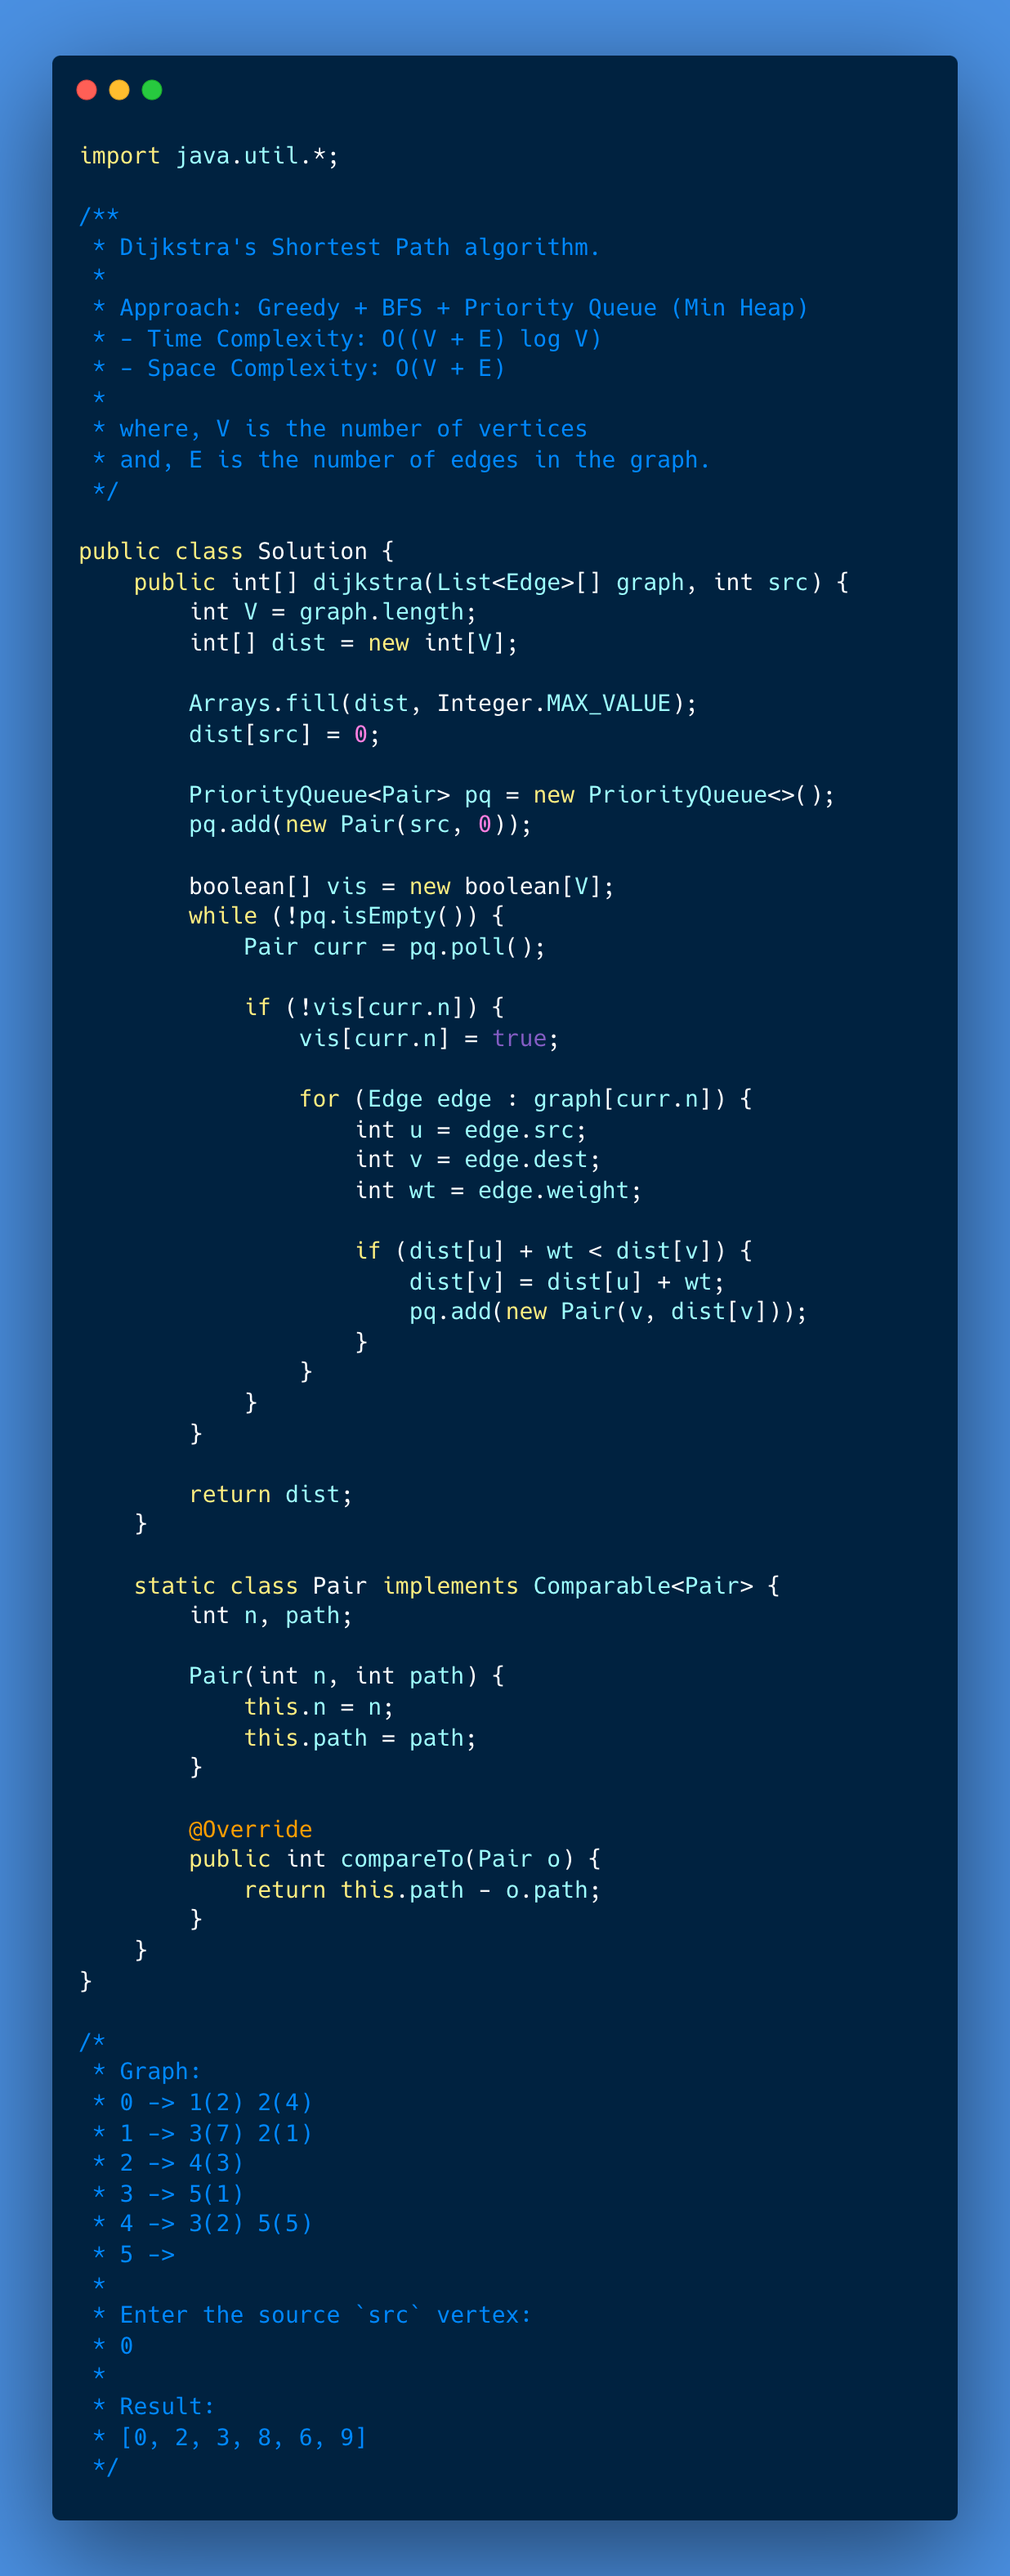
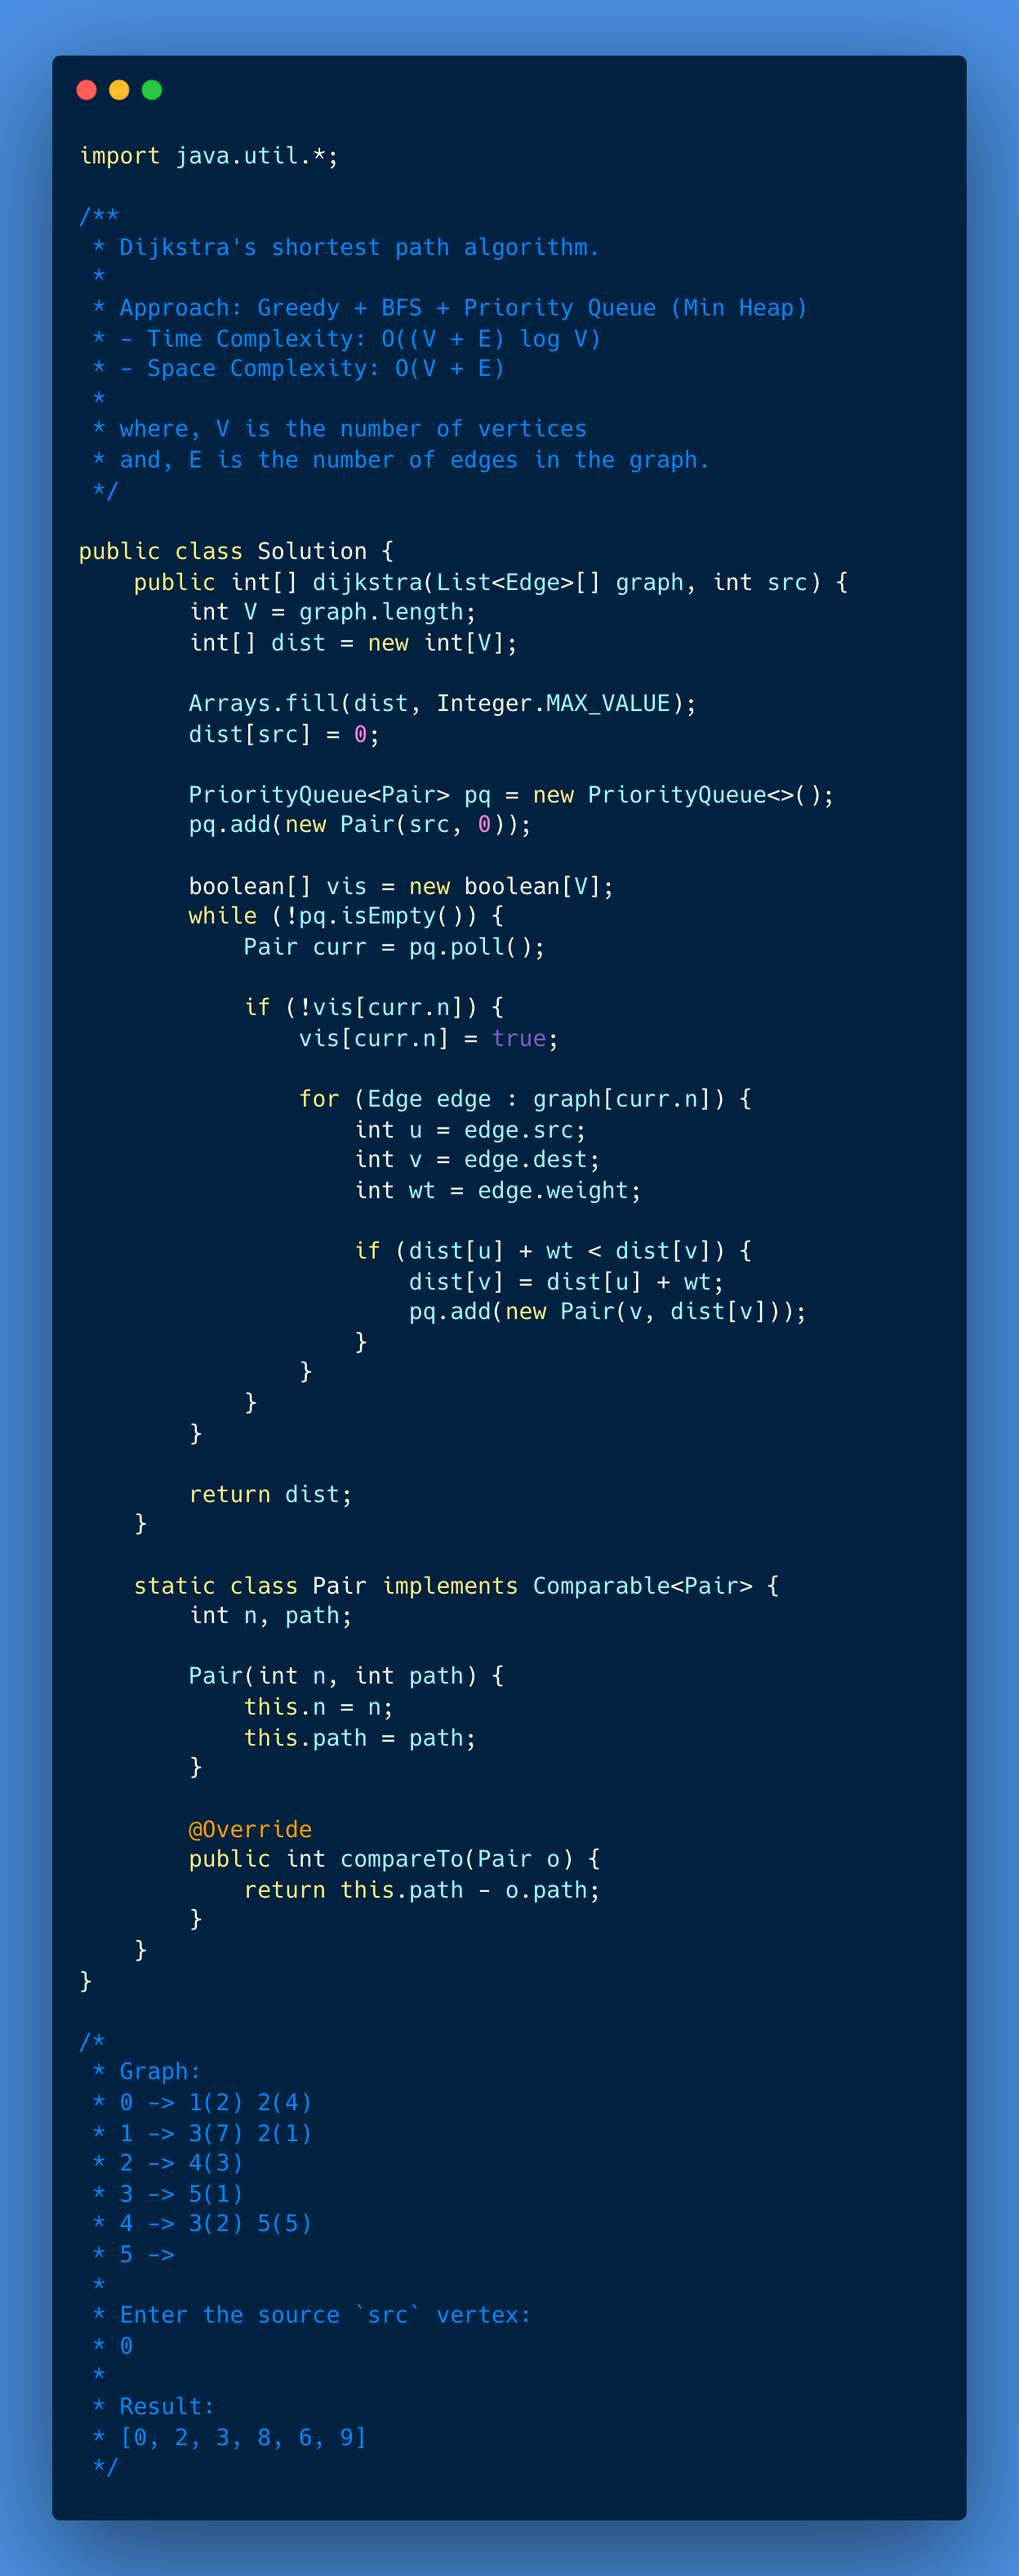
code comment updates

diff --git a/256-dijkstras-shortest-path/001-solution/Solution.java b/256-dijkstras-shortest-path/001-solution/Solution.java
@@ -1,7 +1,7 @@
 import java.util.*;
 
 /**
- * Dijkstra's Shortest Path algorithm.
+ * Dijkstra's shortest path algorithm.
  * 
  * Approach: Greedy + BFS + Priority Queue (Min Heap)
  * - Time Complexity: O((V + E) log V)
